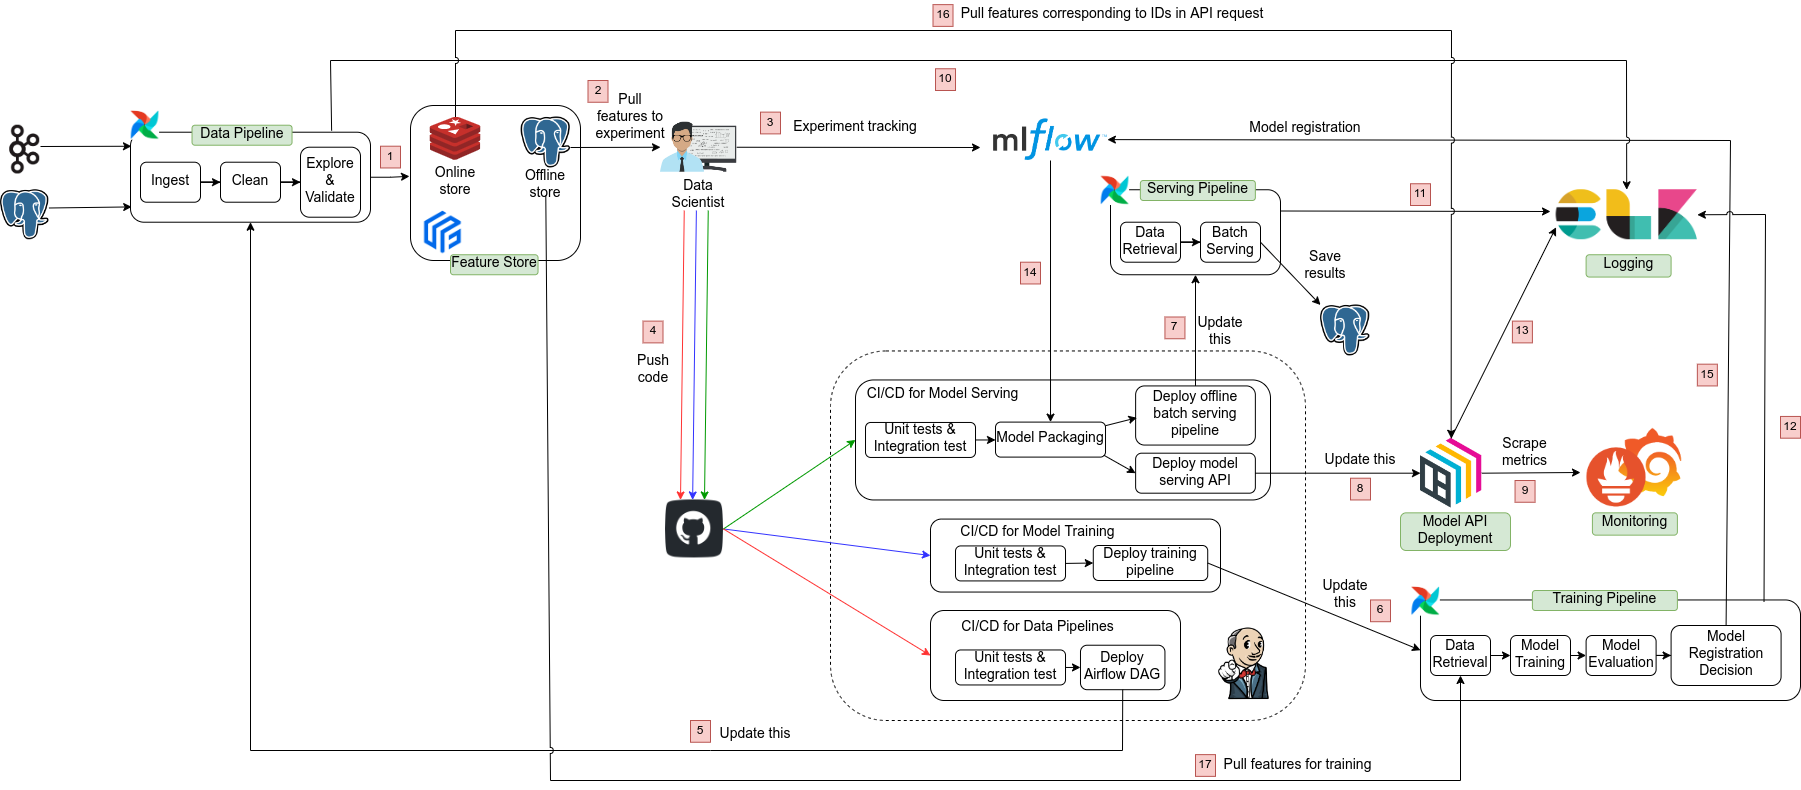
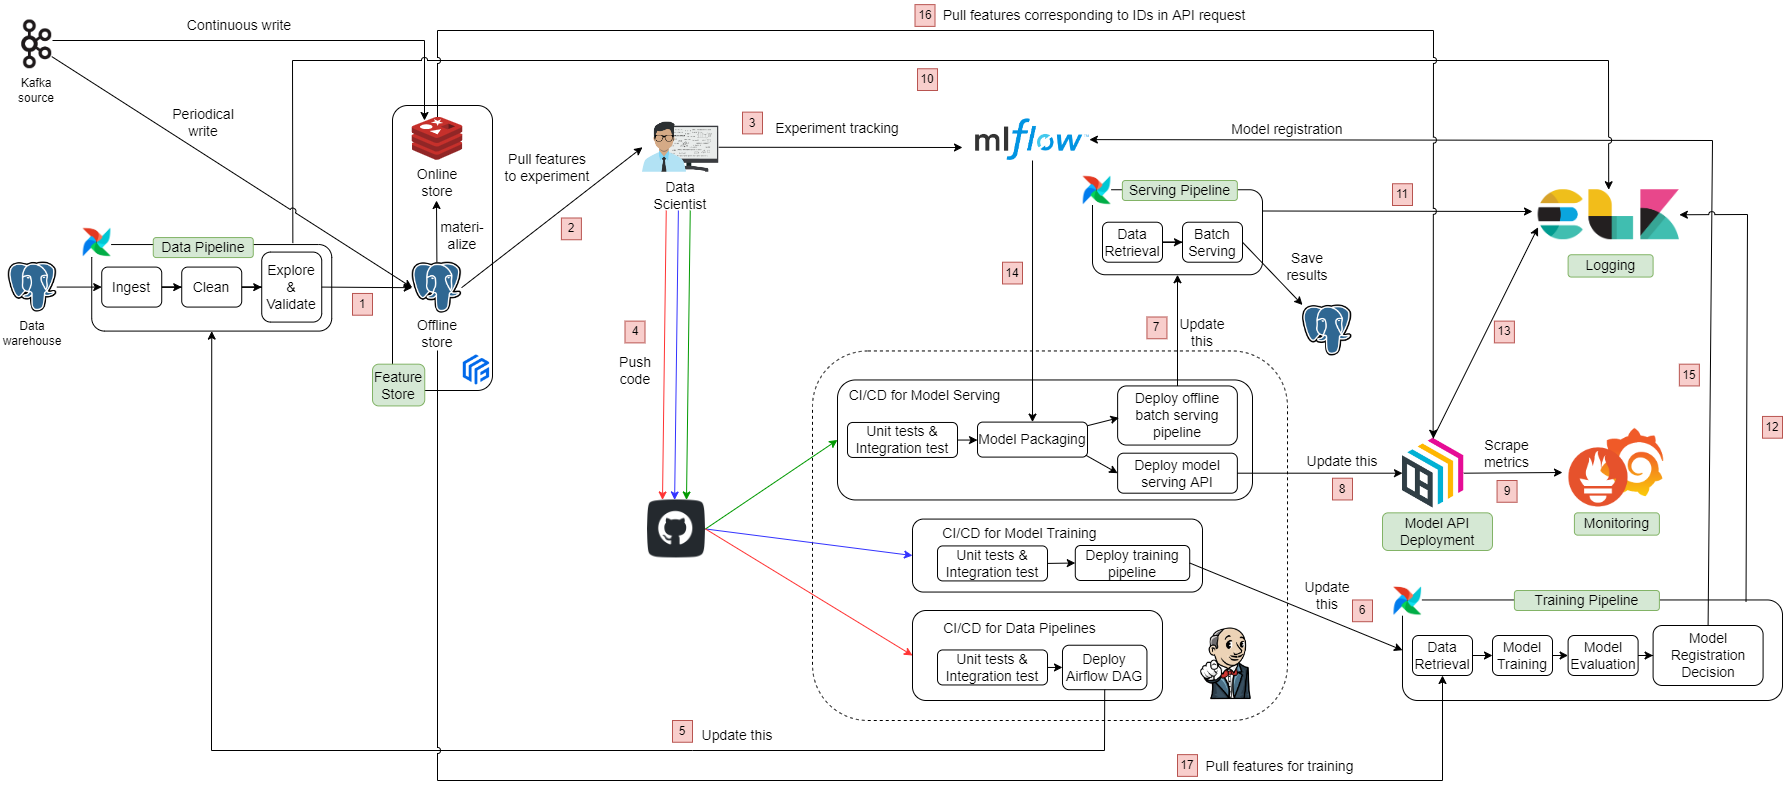
Data pipeline (#24)

diff --git a/docs/mlops-crash-course/xay-dung-data-pipeline/tong-quan-data-pipeline.md b/docs/mlops-crash-course/xay-dung-data-pipeline/tong-quan-data-pipeline.md
@@ -1,0 +1,17 @@
+Từ xưa một cụ giấu tên đã có câu *garbage in, garbage out*, được hiểu rằng dữ liệu đầu vào mà rác thì kết quả đầu ra cũng không thể dùng được. Như vậy công đoạn chuẩn bị dữ liệu là cực kỳ quan trọng, nhất là đối với các ứng dụng có hiệu năng bị chi phối mạnh mẽ bởi dữ liệu như ML. Theo thống kê của [Forbes](https://www.forbes.com/sites/gilpress/2016/03/23/data-preparation-most-time-consuming-least-enjoyable-data-science-task-survey-says), các Data Scientists dành tới 80% thời gian cho các công việc liên quan tới xử lý dữ liệu, đủ để hiểu rằng data engineering là một quá trình rất phức tạp và tốn nhiều thời gian. 
+
+Thông thường một pipeline xử lý dữ liệu sẽ gồm các thành phần chính như sau:
+
+| Thành phần chính  | Công việc cần làm |
+| --------------    | ------- |
+| Data ingestion    | **Data provenance:** lưu trữ thông tin về các dữ liệu nguồn |
+|    | **Metadata catalog:** lưu trữ thông tin về dữ liệu bao gồm: kích thước, định dạng, người sở hữu, người có quyền truy cập, thời gian sửa đổi gần nhất, .v.v.  |
+|    | **Data formatting:** chuyển dữ liệu sang format khác để dễ dàng xử lý |
+|    | **Privacy Compliance:** đảm bảo các dữ liệu nhạy cảm (PII), ví dụ thông tin họ tên khách hàng đi kèm CMND/CCCD, đã được ẩn đi |
+| Data cleaning | Xử lý outlier/missing values  |
+|    | Loại bỏ các features không liên quan hoặc các sample bị lặp lại  |
+|    | Thay đổi thứ tự các cột  |
+|    | Thực hiện các phép biến đổi |
+| Data exploration & validation | **Data profiling:** hiển thị thông tin cơ bản về các feature như kiểu dữ liệu, tỉ lệ missing value, phân bố dữ liệu, các con số thống kê như *min*, *max*, *mean*, .v.v. |
+|    | **Visualization:** xây dựng các dashboard về phân bố hoặc độ skew của dữ liệu |
+|    | **Validation:** sử dụng các user-defined rule (ví dụ như *tỉ lệ missing value < 80%*), hoặc dựa vào thống kê để xác định độ lệch phân bố |

diff --git a/docs/mlops-crash-course/tong-quan-he-thong/mlops-platform.md b/docs/mlops-crash-course/tong-quan-he-thong/mlops-platform.md
@@ -45,4 +45,10 @@ Các tương tác chính trong MLOps platform:
 
 17\. Kéo features về để train model
 
+18\. Materialize feature từ offline sang online store
+
+19.\ Stream dữ liệu vào online store
+
+20.\ Stream dữ liệu vào offline store
+
 Sau khi đã trả lời một loạt các câu hỏi về hệ thống ML ở bài trước và định nghĩa MLOps platform ở bài này, chúng ta đã có một cái nhìn kĩ lưỡng hơn về problem mà chúng ta đang giải quyết. Dựa vào Timeline đã được định nghĩa, tiếp theo chúng ta sẽ thực hiện POC.

diff --git a/docs/mlops-crash-course/xay-dung-data-pipeline/airflow-co-ban.md b/docs/mlops-crash-course/xay-dung-data-pipeline/airflow-co-ban.md
@@ -1,0 +1,1 @@
+Airflow là một tool cung cấp SDK và UI để hỗ trợ xây dựng, quản lý, theo dõi các pipeline.
